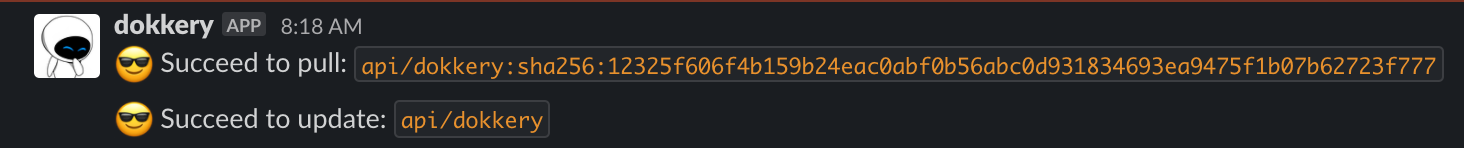
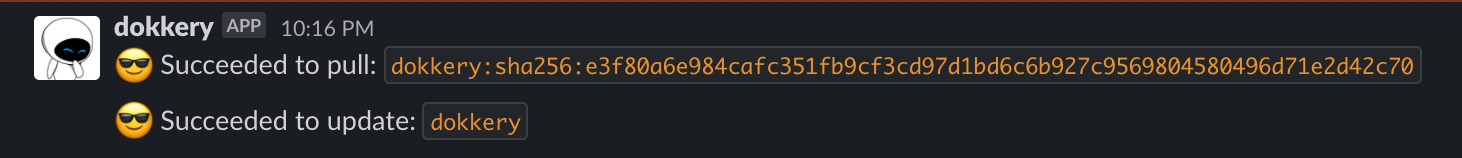
Fix typo and update README.md

diff --git a/README.md b/README.md
@@ -4,6 +4,38 @@
 
 ## Usage
 
+### Build
+
+Get started to build and run using `docker-compose`:
+
+```
+$ docker-compose up --build
+Successfully built 735e3c2068b6
+Successfully tagged ziwon/dokkery:latest
+Starting dokkery_registry_1  ... done
+Recreating dokkery_dokkery_1 ... done
+Attaching to dokkery_registry_1, dokkery_dokkery_1
+dokkery_1   | {"time":"2020-09-01T13:01:54.241136226Z","level":"INFO","prefix":"-","file":"serve.go","line":"59","message":"Starting server on: :8080"}
+registry_1  | time="2020-09-01T13:01:54.307170339Z" level=info msg="configuring endpoint dokkery (http://dokkery:8080/api/v1/event), timeout=1s, headers=map[]" go.version=go1.11.2 instance.id=0c0fedfb-bb92-4db7-a522-bb3897354d2f service=registry version=v2.7.1
+```
+
+### Push
+
+For testing purposes, let's change the tag of the docker image and push to the registry.
+
+```
+$ docker tag ziwon/dokkery:latest localhost:5000/dokkery:latest (for testing purpose)
+$ docker push localhost:5000/dokkery:latest
+```
+
+### Notification
+
+When a docker registry event is delivered to `dokkery`, it executes the commands that registered for the event in `config.yml` and reports the result.
+
+![](./docs/dokkery-with-slack.png)
+
+## Configuration
+
  In `config.yml`, you can specify `pre` and `post` commands that you want to execute against `push` event on docker registry like the following:
 
 ```yml
@@ -15,28 +47,26 @@ registry:
   onpush:
     services:
       - name: "dokkery"
-        image: "localhost:5000/api/dokkery:latest"
+        image: "dokkery:latest"
         pre:
           - "echo 'docker pull {}'"
         post:
           - "echo 'docker service update {} --force'"
 notify:
   slack:
-    webhook: "https://hooks.slack.com/services/foo/bar"
+    webhook: "https://hooks.slack.com/services/foo/bar/baz"
     channel: "#alert"
     message:
       success:
-        head: ":sunglasses: Succeed %s"
+        head: ":sunglasses: Succeeded %s"
       fail:
         head: ":scream: Failed %s"
 ```
 
-Then `dokkery` will execute the above commands and will notify the results:
 
-![](./docs/dokkery-with-slack.png)
 
-## Using ssh
-In production like the Swarm cluster, we recommend to use `ssh` to execute the privileged commands like `docker pull` or `docker service update`. You might have to configure a ssh connection in a `dokkery` container:
+## SSH
+In production, we would recommend to use `ssh` to execute the privileged commands like `docker pull` or `docker service update` on the host. You might be required to configure a ssh connection in a `dokkery` container with `~/.ssh/config`, `~/.ssh/id_rsa`, and `~/.ssh/knwon_host` allowing access to the host from a container:
 
 ```yml
 registry:
@@ -54,4 +84,4 @@ registry:
 
 ## Todo
 
-Currently, it's very unstable.
+- [ ] To filter out more clearly some events coming from unnecessary notifications on the registry side.
